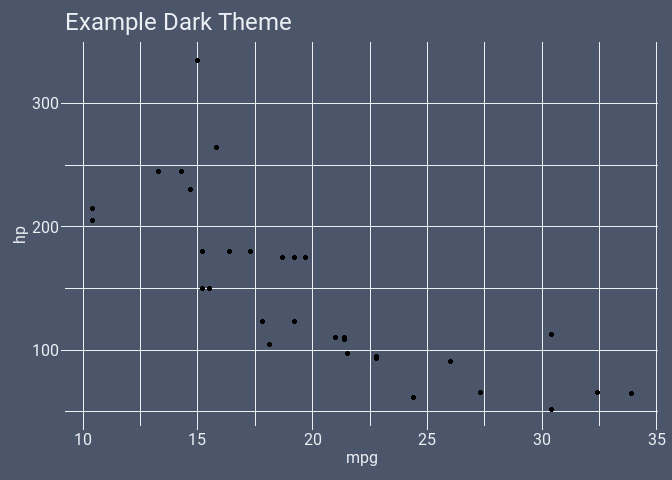
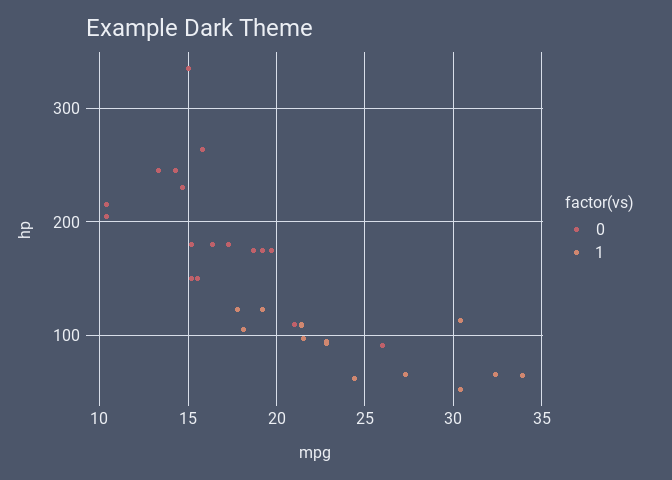
updated nord theme function and documentation

diff --git a/README.md b/README.md
@@ -32,9 +32,10 @@ library(ggcolrr)
 
 mtcars %>%
   ggplot(aes(x=mpg,y=hp)) +
-  geom_point() +
+  geom_point(aes(color=factor(vs))) +
   labs(title="Example Light Theme") +
-  theme_nord(light=TRUE,base_size=12)
+  theme_nord(light=TRUE,base_size=12) +
+  scale_color_theme(theme = "nord_aurora")
 ```
 
 <img src="man/figures/README-light-theme-1.png" width="100%" />
@@ -42,9 +43,10 @@ mtcars %>%
 ``` r
 mtcars %>%
   ggplot(aes(x=mpg,y=hp)) +
-  geom_point() +
+  geom_point(aes(color=factor(vs))) +
   labs(title="Example Dark Theme") +
-  theme_nord(light=FALSE,base_size=12)
+  theme_nord(light=FALSE,base_size=12) +
+  scale_color_theme(theme = "nord_aurora")
 ```
 
 <img src="man/figures/README-dark-theme-1.png" width="100%" />
@@ -66,3 +68,4 @@ ggplot(mtcars, aes(x=as.factor(cyl), fill=as.factor(cyl) )) +
 - Nord theme colors are based on the [Nord color
   palette](https://www.nordtheme.com/). The Nord theme was created by
   [Arctic Ice Studio](https://github.com/arcticicestudio)
+- [Discord](https://discord.com/branding) theme colors
